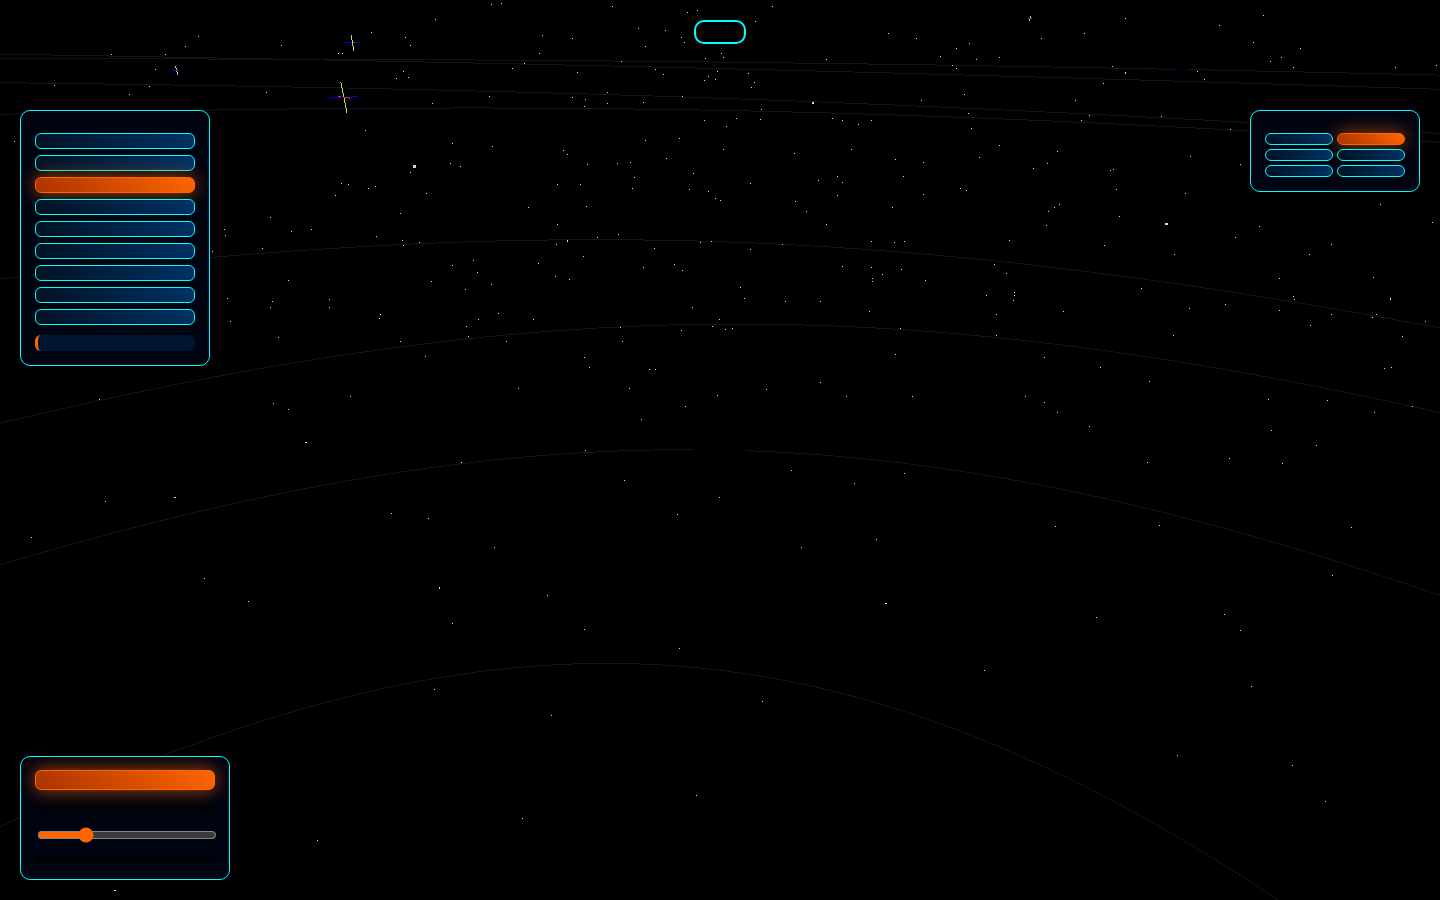
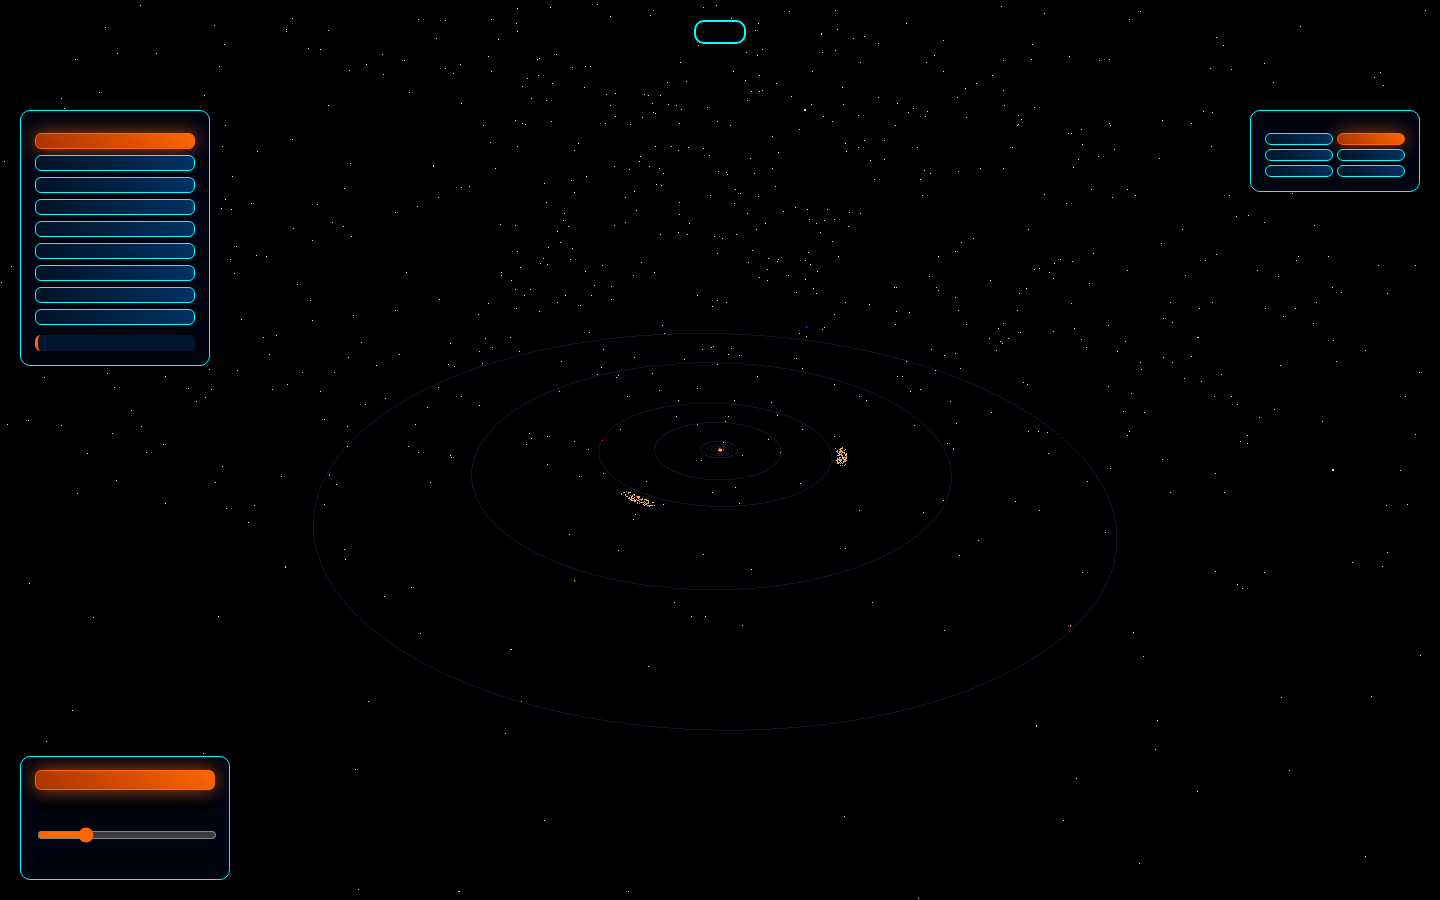
feat: spherical, randomized asteroid rain physics
addDynamicAsteroid spawned every asteroid in the ecliptic plane at a fixed
6-10 AU ring, aimed straight at the Sun — every run looked identical, and
positions were computed relative to world origin (wrong once the
referential shifts the Sun).

New js/asteroids.js module (three.js-free, unit-tested):
- isotropic spawn direction via z = 2u-1 sampling (no polar clustering)
- distance drawn uniformly in a 6-10 AU shell around the Sun's actual
  position, not a fixed ring
- initial velocity aimed at the Sun with a random angular deflection
  (Rodrigues rotation around a random perpendicular axis), so trajectories
  diverge instead of all plunging radially
- spawn cadence jittered (2.4-4.2 s) instead of a metronomic 3 s interval

Cleanup distances are now measured from the Sun with module-level
thresholds. 7 new unit tests (isotropy with the correct y-uniform-on-[-1,1]
statistics, distance shell, determinism with seeded rng, inbound-but-
deflected velocities). Verified in headless Chromium: 269/300 spawns out of
plane, distances spanning 6.0-9.99 AU, zero console errors.

Changed region(s): [[0.0, 0.1244, 0.1562, 0.2489]]

diff --git a/static/lagrange.js b/static/lagrange.js
@@ -5,6 +5,7 @@ import { RenderPass } from './vendor/jsm/postprocessing/RenderPass.js';
 import { UnrealBloomPass } from './vendor/jsm/postprocessing/UnrealBloomPass.js';
 import { OutputPass } from './vendor/jsm/postprocessing/OutputPass.js';
 import { PLANETS, AU_VISUAL, SUN_MASS, REFERENTIAL_CAPTIONS, PLANET_INFO, LAGRANGE_INFO } from './js/data.js';
+import { randomSpawnState, SPAWN } from './js/asteroids.js';
 import { planetPosition, lagrangePosition, makeDateAt } from './js/physics.js';
 import {
   createSun, createPlanetMesh, createSaturnRings, createOrbitLine,
@@ -200,21 +201,21 @@ class Trail {
 }
 
 function addDynamicAsteroid() {
-  const distance = 6 * AU_VISUAL + Math.random() * 4 * AU_VISUAL;
-  const angle = Math.random() * Math.PI * 2;
+  const state = randomSpawnState({ auPerUnit: AU_VISUAL });
   const size = Math.random() * 1.5 + 0.5;
   const asteroid = new THREE.Mesh(
     new THREE.SphereGeometry(size, 12, 12),
     new THREE.MeshLambertMaterial({ color: 0xFFFFFF, emissive: 0x222222 }),
   );
   asteroid.position.set(
-    Math.cos(angle) * distance,
-    (Math.random() - 0.5) * 100,
-    Math.sin(angle) * distance,
+    sun.position.x + state.offset.x,
+    sun.position.y + state.offset.y,
+    sun.position.z + state.offset.z,
   );
-  const speed = Math.random() * 2 + 1;
-  const dirToCenter = asteroid.position.clone().negate().normalize();
-  asteroid.userData = { velocity: dirToCenter.multiplyScalar(speed), isAsteroid: true };
+  asteroid.userData = {
+    velocity: new THREE.Vector3(state.velocity.x, state.velocity.y, state.velocity.z),
+    isAsteroid: true,
+  };
   scene.add(asteroid);
   dynamicAsteroids.push(asteroid);
   trails.set(asteroid, new Trail());
@@ -236,17 +237,26 @@ function applyGravity(asteroid) {
 }
 
 let asteroidRainActive = false;
-let asteroidRainInterval = null;
+let asteroidRainTimeout = null;
+
+function scheduleNextAsteroid() {
+  const delay = SPAWN.minIntervalMs + Math.random() * (SPAWN.maxIntervalMs - SPAWN.minIntervalMs);
+  asteroidRainTimeout = setTimeout(() => {
+    addDynamicAsteroid();
+    if (asteroidRainActive) scheduleNextAsteroid();
+  }, delay);
+}
 
 function toggleAsteroidRain() {
   const btn = document.getElementById('rain-btn');
   asteroidRainActive = !asteroidRainActive;
   if (asteroidRainActive) {
     for (let i = 0; i < 2; i++) addDynamicAsteroid();
-    asteroidRainInterval = setInterval(addDynamicAsteroid, 3000);
+    scheduleNextAsteroid();
     btn.textContent = '⏹ Arrêter la pluie';
   } else {
-    clearInterval(asteroidRainInterval);
+    if (asteroidRainTimeout) clearTimeout(asteroidRainTimeout);
+    asteroidRainTimeout = null;
     btn.textContent = '☄ Pluie d\'astéroïdes';
   }
   btn.classList.toggle('active', asteroidRainActive);
@@ -368,8 +378,9 @@ function animate(now) {
     }
     asteroid.position.add(asteroid.userData.velocity.clone().multiplyScalar(0.1));
     trails.get(asteroid)?.push(asteroid.position);
-    const distanceFromCenter = asteroid.position.length();
-    if (distanceFromCenter < 15 || distanceFromCenter > 20000) {
+    const distanceFromSun = asteroid.position.distanceTo(sun.position);
+    const killDistance = SPAWN.killDistanceAU * AU_VISUAL;
+    if (distanceFromSun < SPAWN.killRadius || distanceFromSun > killDistance) {
       asteroid.geometry.dispose();
       asteroid.material.dispose();
       scene.remove(asteroid);

diff --git a/static/js/asteroids.js b/static/js/asteroids.js
@@ -1,0 +1,58 @@
+export const SPAWN = {
+  minAU: 6,
+  maxAU: 10,
+  maxDeflectionRad: 0.5,
+  minSpeed: 1,
+  maxSpeed: 3,
+  minIntervalMs: 2400,
+  maxIntervalMs: 4200,
+  killRadius: 15,
+  killDistanceAU: 120,
+};
+
+function randomUniform(min, max) {
+  return min + Math.random() * (max - min);
+}
+
+export function randomUnitVector(rng = Math.random) {
+  const z = 2 * rng() - 1;
+  const phi = rng() * 2 * Math.PI;
+  const r = Math.sqrt(Math.max(0, 1 - z * z));
+  return { x: r * Math.cos(phi), y: z, z: r * Math.sin(phi) };
+}
+
+export function randomSpawnState({ auPerUnit = 200 } = {}) {
+  const dir = randomUnitVector();
+  const distanceAU = randomUniform(SPAWN.minAU, SPAWN.maxAU);
+  const speed = randomUniform(SPAWN.minSpeed, SPAWN.maxSpeed);
+
+  const toSun = { x: -dir.x, y: -dir.y, z: -dir.z };
+  const deflection = randomUniform(-SPAWN.maxDeflectionRad, SPAWN.maxDeflectionRad);
+  const cosD = Math.cos(deflection);
+  const sinD = Math.sin(deflection);
+
+  const axis = randomUnitVector();
+  const cross = {
+    x: toSun.y * axis.z - toSun.z * axis.y,
+    y: toSun.z * axis.x - toSun.x * axis.z,
+    z: toSun.x * axis.y - toSun.y * axis.x,
+  };
+  const axisLength = Math.hypot(cross.x, cross.y, cross.z) || 1;
+  cross.x /= axisLength; cross.y /= axisLength; cross.z /= axisLength;
+
+  const velocity = {
+    x: toSun.x * cosD + cross.x * sinD,
+    y: toSun.y * cosD + cross.y * sinD,
+    z: toSun.z * cosD + cross.z * sinD,
+  };
+
+  return {
+    offset: {
+      x: dir.x * distanceAU * auPerUnit,
+      y: dir.y * distanceAU * auPerUnit,
+      z: dir.z * distanceAU * auPerUnit,
+    },
+    velocity: { x: velocity.x * speed, y: velocity.y * speed, z: velocity.z * speed },
+    distanceAU,
+  };
+}
